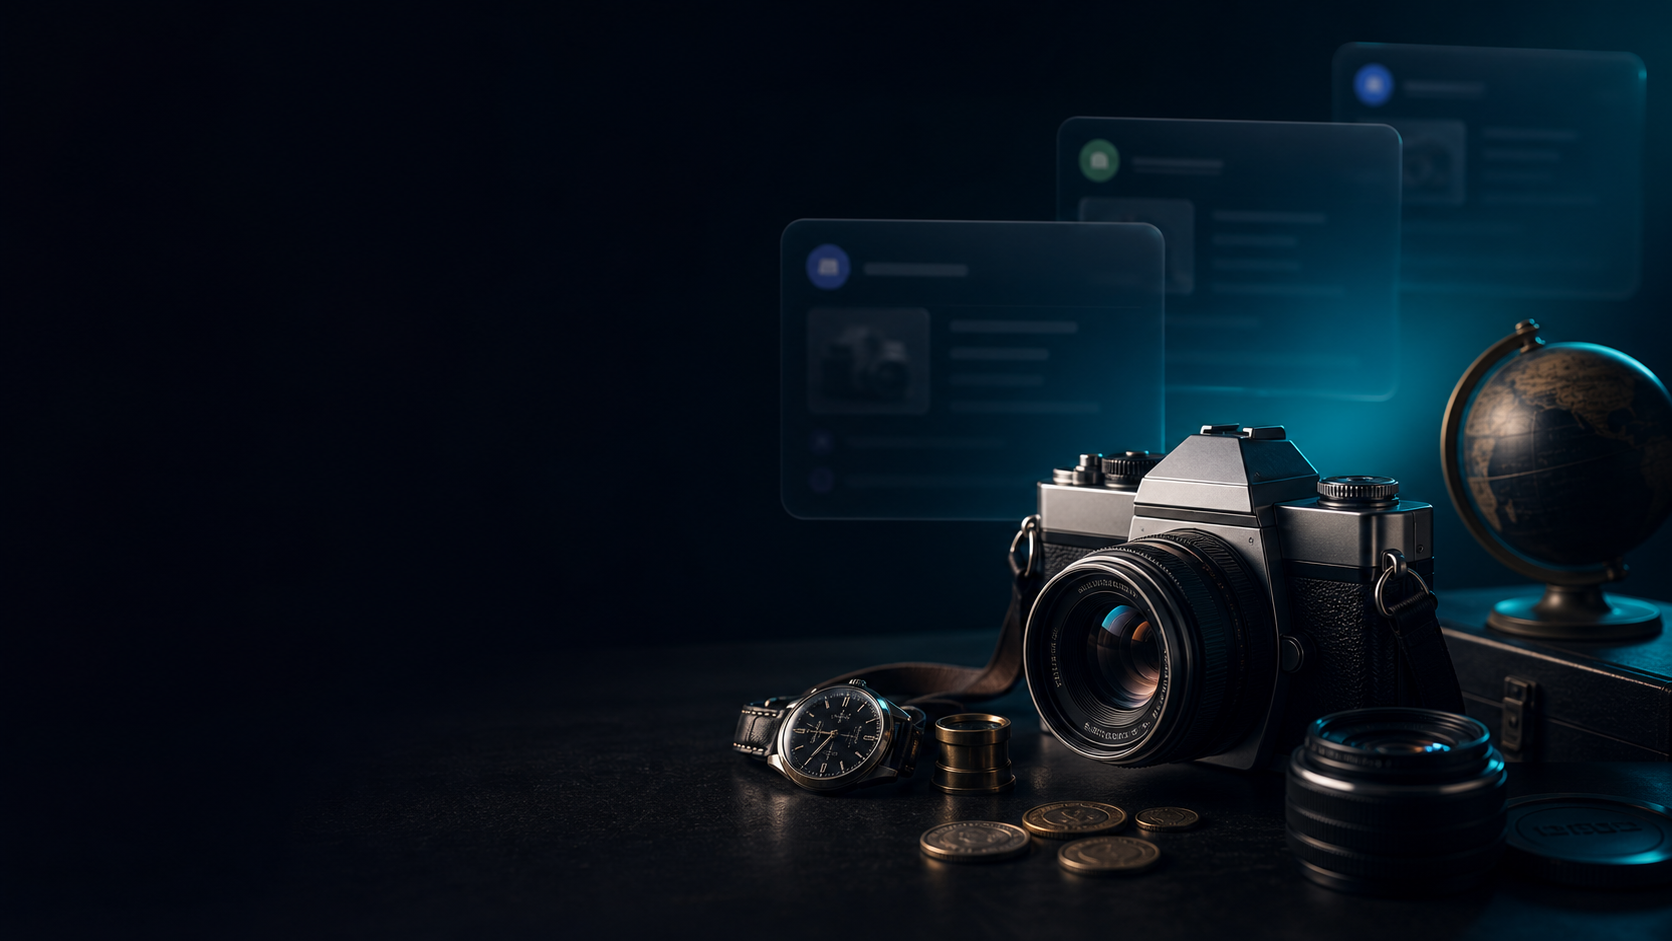
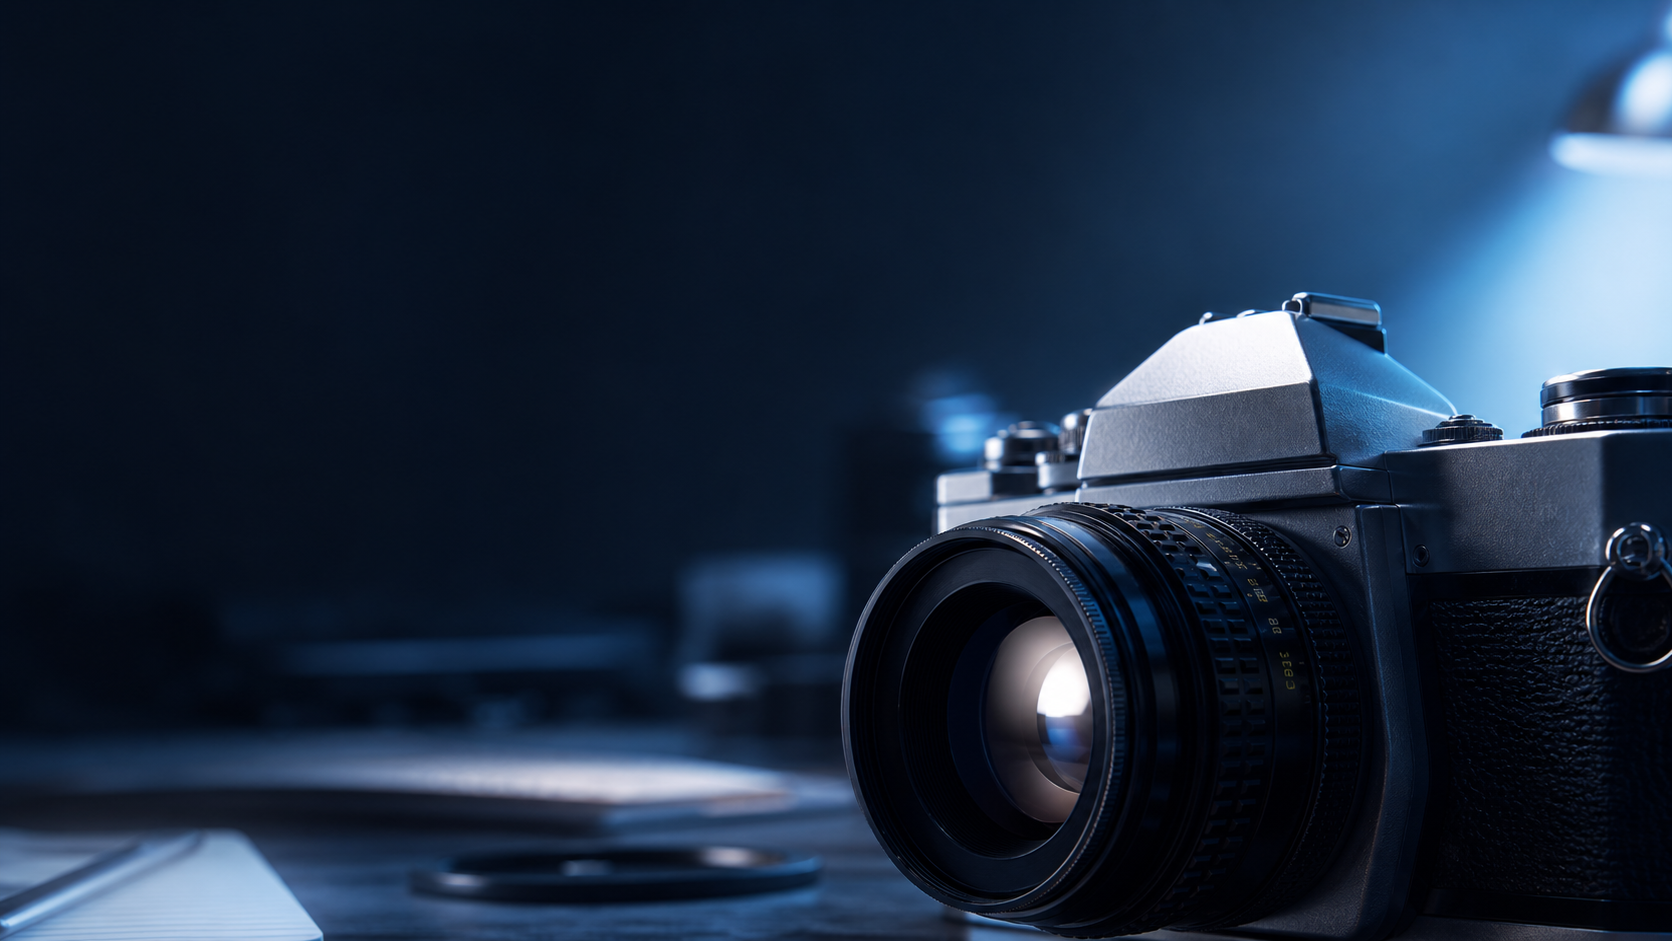
Refine website glow and blue hero treatment

diff --git a/website/styles.css b/website/styles.css
@@ -5,17 +5,18 @@
   --ink-3: #111925;
   --surface: rgba(13, 20, 30, 0.78);
   --surface-strong: #101824;
-  --line: rgba(231, 242, 248, 0.12);
-  --line-strong: rgba(231, 242, 248, 0.22);
+  --line: rgba(232, 244, 255, 0.13);
+  --line-strong: rgba(232, 244, 255, 0.24);
   --text: #f4f7f5;
   --muted: #a7b5ba;
-  --green: #26d6a3;
-  --green-soft: #9ef4d9;
+  --green: #74b9ff;
+  --green-soft: #d8ebff;
   --blue: #4f8cff;
-  --cyan: #39d7ff;
+  --cyan: #9dd4ff;
   --amber: #f4c35c;
   --rose: #ff6b7a;
   --shadow: 0 30px 100px rgba(0, 0, 0, 0.5);
+  --soft-glow: 0 0 0 1px rgba(246, 251, 255, 0.16), 0 0 34px rgba(216, 235, 255, 0.11), 0 30px 100px rgba(0, 0, 0, 0.46);
 }
 
 * {
@@ -29,7 +30,7 @@ html {
 body {
   margin: 0;
   background:
-    radial-gradient(circle at 12% 0%, rgba(38, 214, 163, 0.18), transparent 34rem),
+    radial-gradient(circle at 12% 0%, rgba(116, 185, 255, 0.16), transparent 34rem),
     radial-gradient(circle at 88% 12%, rgba(79, 140, 255, 0.15), transparent 30rem),
     linear-gradient(180deg, #06090f 0%, #0a1018 42%, #06090f 100%);
   color: var(--text);
@@ -95,7 +96,7 @@ img {
   width: 2.55rem;
   height: 2.55rem;
   object-fit: contain;
-  filter: drop-shadow(0 0 16px rgba(38, 214, 163, 0.18));
+  filter: drop-shadow(0 0 16px rgba(216, 235, 255, 0.18));
 }
 
 .section-band {
@@ -163,14 +164,26 @@ img {
 }
 
 .hero-showcase {
+  position: relative;
   justify-self: end;
   width: min(43rem, 100%);
   overflow: hidden;
-  border: 1px solid rgba(231, 242, 248, 0.14);
+  border: 1px solid rgba(246, 251, 255, 0.22);
   border-radius: 22px;
-  background: rgba(8, 13, 20, 0.48);
-  box-shadow: 0 34px 100px rgba(0, 0, 0, 0.48);
+  background: rgba(8, 13, 20, 0.54);
+  box-shadow: var(--soft-glow);
   transform: rotate(-1deg);
+}
+
+.hero-showcase::after,
+.alert-frame::after {
+  position: absolute;
+  inset: 0;
+  pointer-events: none;
+  border: 1px solid rgba(255, 255, 255, 0.18);
+  border-radius: inherit;
+  box-shadow: inset 0 0 28px rgba(255, 255, 255, 0.035), 0 0 26px rgba(216, 235, 255, 0.08);
+  content: "";
 }
 
 .hero-showcase img {
@@ -255,12 +268,12 @@ h3 {
 .button-primary {
   color: #04100d;
   background: var(--green);
-  box-shadow: 0 18px 38px rgba(16, 163, 127, 0.28);
+  box-shadow: 0 18px 38px rgba(116, 185, 255, 0.22);
 }
 
 .button-primary:hover,
 .button-primary:focus-visible {
-  background: #20bd96;
+  background: #9dccff;
 }
 
 .button-secondary {
@@ -359,7 +372,7 @@ h3 {
   height: 2.35rem;
   place-items: center;
   margin-bottom: 3.2rem;
-  border: 1px solid rgba(16, 163, 127, 0.42);
+  border: 1px solid rgba(216, 235, 255, 0.34);
   border-radius: 999px;
   color: var(--green-soft);
   font-size: 0.72rem;
@@ -395,12 +408,12 @@ h3 {
 .discord-panel,
 .volume-card,
 .alert-frame {
-  border: 1px solid var(--line);
+  border: 1px solid rgba(246, 251, 255, 0.16);
   border-radius: 18px;
   background:
-    linear-gradient(180deg, rgba(255, 255, 255, 0.06), rgba(255, 255, 255, 0.02)),
-    rgba(16, 22, 20, 0.9);
-  box-shadow: var(--shadow);
+    linear-gradient(180deg, rgba(255, 255, 255, 0.055), rgba(255, 255, 255, 0.018)),
+    rgba(10, 17, 28, 0.9);
+  box-shadow: var(--soft-glow);
 }
 
 .builder-card {
@@ -499,8 +512,8 @@ select {
 
 input:focus,
 select:focus {
-  border-color: rgba(16, 163, 127, 0.78);
-  outline: 4px solid rgba(16, 163, 127, 0.16);
+  border-color: rgba(116, 185, 255, 0.78);
+  outline: 4px solid rgba(116, 185, 255, 0.16);
 }
 
 .input-row {
@@ -551,7 +564,7 @@ select:focus {
   align-items: center;
   gap: 0.8rem;
   border: 1px solid rgba(255, 255, 255, 0.09);
-  border-left: 3px solid rgba(38, 214, 163, 0.82);
+  border-left: 3px solid rgba(116, 185, 255, 0.82);
   border-radius: 10px;
   padding: 0.72rem 0.78rem;
   background: rgba(255, 255, 255, 0.035);
@@ -577,7 +590,7 @@ select:focus {
 
 .chip button:hover,
 .chip button:focus-visible {
-  border-color: rgba(38, 214, 163, 0.42);
+  border-color: rgba(116, 185, 255, 0.42);
   color: var(--text);
 }
 
@@ -592,11 +605,11 @@ select:focus {
   grid-template-columns: 1fr auto;
   gap: 0.25rem 1rem;
   align-items: end;
-  border: 1px solid rgba(16, 163, 127, 0.2);
+  border: 1px solid rgba(116, 185, 255, 0.22);
   border-radius: 10px;
   padding: 1rem;
   background:
-    linear-gradient(90deg, rgba(16, 163, 127, 0.12), transparent 72%),
+    linear-gradient(90deg, rgba(116, 185, 255, 0.12), transparent 72%),
     rgba(0, 0, 0, 0.18);
 }
 
@@ -661,7 +674,9 @@ select:focus {
 }
 
 .alert-frame {
+  position: relative;
   overflow: hidden;
+  border-color: rgba(246, 251, 255, 0.2);
   padding: 0.65rem;
 }
 
@@ -686,19 +701,6 @@ select:focus {
   margin: -0.25rem 0 0;
   color: var(--muted);
   font-size: 0.9rem;
-}
-
-.private-box {
-  display: grid;
-  gap: 0.25rem;
-  border: 1px solid rgba(255, 255, 255, 0.1);
-  border-radius: 14px;
-  padding: 1rem;
-  background: rgba(0, 0, 0, 0.24);
-}
-
-.private-box span {
-  color: var(--muted);
 }
 
 .data {
@@ -746,7 +748,7 @@ select:focus {
   gap: 1rem;
   padding: 1.25rem;
   background:
-    linear-gradient(90deg, rgba(16, 163, 127, 0.14), transparent),
+    linear-gradient(90deg, rgba(116, 185, 255, 0.13), transparent),
     rgba(0, 0, 0, 0.18);
 }
 

diff --git a/website/index.html b/website/index.html
@@ -70,7 +70,7 @@
             <article>
               <span class="tile-icon">04</span>
               <h3>Self-hosted control</h3>
-              <p>Keep runtime credentials on your server instead of putting private keys on a public site.</p>
+              <p>Run the monitor from your own server and keep the public website lightweight.</p>
             </article>
           </div>
         </section>
@@ -162,8 +162,7 @@
             <h2>Invite the bot. Keep secrets server-side.</h2>
             <p>
               Use your Discord application's public Application ID to generate an
-              OAuth invite. Bot tokens, webhook URLs, client secrets, and eBay API
-              credentials belong in your private server runtime only.
+              OAuth invite for your server.
             </p>
             <a class="inline-link" href="https://discord.com/developers/applications" target="_blank" rel="noopener noreferrer">
               Open Discord Developer Portal
@@ -192,11 +191,6 @@
 
             <a class="button button-primary disabled" id="inviteLink" href="#" aria-disabled="true">Add to Discord</a>
             <p class="form-note" id="inviteHint">Enter a valid client ID to generate the invite link.</p>
-
-            <div class="private-box">
-              <strong>Private runtime config</strong>
-              <span>Bot token, API client secret, webhook URL, and production keys stay off this site.</span>
-            </div>
           </div>
         </section>
 
@@ -204,10 +198,6 @@
           <div class="section-heading centered">
             <p class="kicker">Privacy by shape</p>
             <h2>Listing context without account baggage.</h2>
-            <p>
-              The public site is static and does not collect private runtime credentials.
-              Alerts are shaped around listing context instead of user account records.
-            </p>
           </div>
           <div class="data-grid">
             <article>

diff --git a/website/app.js b/website/app.js
@@ -108,7 +108,7 @@ function updateInviteLink() {
     inviteLink.href = "#";
     inviteLink.classList.add("disabled");
     inviteLink.setAttribute("aria-disabled", "true");
-    inviteHint.textContent = "Paste the numeric Application ID from Discord Developer Portal > General Information.";
+    inviteHint.textContent = "Enter a valid Discord Application ID to generate the invite link.";
     return;
   }
 
@@ -121,7 +121,7 @@ function updateInviteLink() {
   inviteLink.href = `https://discord.com/oauth2/authorize?${params.toString()}`;
   inviteLink.classList.remove("disabled");
   inviteLink.removeAttribute("aria-disabled");
-  inviteHint.textContent = "Invite link generated locally. No bot token or secret is sent to this site.";
+  inviteHint.textContent = "Invite link generated locally.";
 }
 
 queryForm.addEventListener("submit", (event) => {